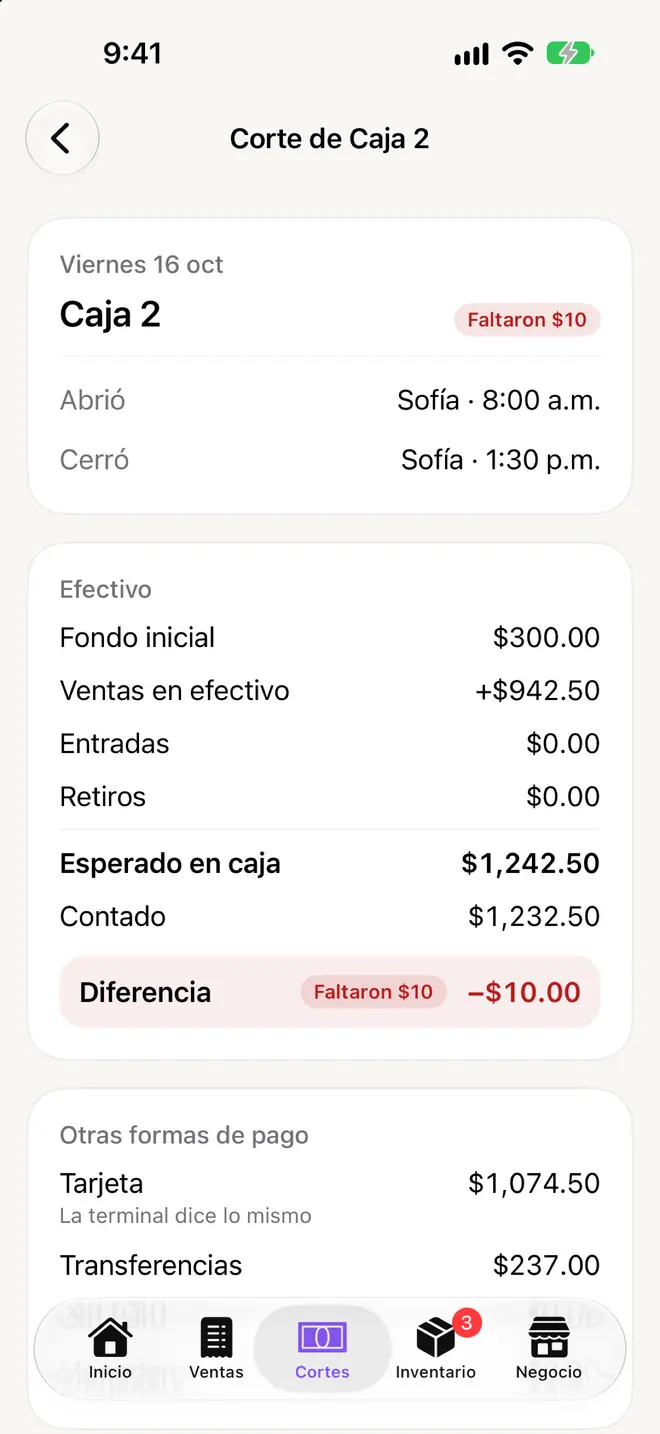
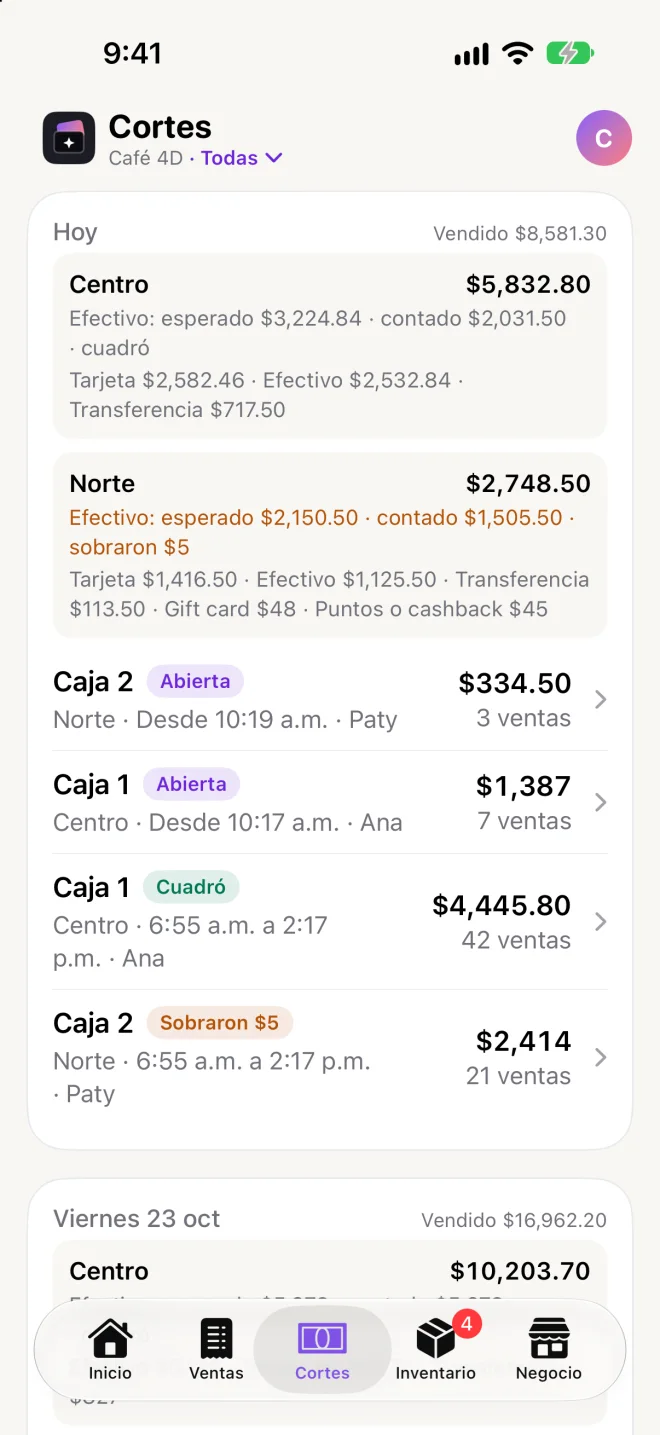
Refresh POSMe for iPhone screens with the current app (Café 4D)
Replace the old MOPA Coffee captures with fresh ones from POSMe 1.5:
today, sales, cash counts per branch, inventory, shopping list and the
AI monthly analysis. Update the hero phone widget to match.

diff --git a/data/walletme.ts b/data/walletme.ts
@@ -114,8 +114,9 @@ export const POS_SCREENSHOTS: ScreenshotItem[] = [
 export const POSME_IPHONE_SCREENSHOTS: ScreenshotItem[] = [
   { src: '/posme-iphone-inicio.webp', alt: 'POSMe for iPhone home with today versus last week', label: 'Today' },
   { src: '/posme-iphone-ventas.webp', alt: 'POSMe for iPhone sales list per ticket', label: 'Sales' },
-  { src: '/posme-iphone-corte.webp', alt: 'POSMe for iPhone cash count expected versus counted', label: 'Cash count' },
-  { src: '/posme-iphone-compras.webp', alt: 'POSMe for iPhone supplier shopping list', label: 'Purchasing' },
-  { src: '/posme-iphone-analisis.webp', alt: 'POSMe for iPhone monthly analysis report', label: 'Monthly report' },
+  { src: '/posme-iphone-corte.webp', alt: 'POSMe for iPhone cash counts per branch and register, expected versus counted', label: 'Cash counts' },
+  { src: '/posme-iphone-inventario.webp', alt: 'POSMe for iPhone inventory with low-stock items per branch', label: 'Inventory' },
+  { src: '/posme-iphone-compras.webp', alt: 'POSMe for iPhone shopping list grouped by supplier', label: 'Purchasing' },
+  { src: '/posme-iphone-analisis.webp', alt: 'POSMe for iPhone AI monthly analysis report', label: 'Monthly report' },
   { src: '/posme-autofactura.webp', alt: 'Customer self-invoicing page opened from the ticket QR', label: 'Self-invoice' },
 ];

diff --git a/components/home/HeroPhone.tsx b/components/home/HeroPhone.tsx
@@ -169,8 +169,8 @@ export const HeroPhone: React.FC = () => {
                 </div>
                 <div className="hp-small hp-small-posme">
                   <p className="hp-small-app">POSMe · today</p>
-                  <p className="hp-small-number">$7,479</p>
-                  <p className="hp-small-label">+31% vs last week</p>
+                  <p className="hp-small-number">$9,191</p>
+                  <p className="hp-small-label">+19% vs last week</p>
                 </div>
               </div>
             </div>
